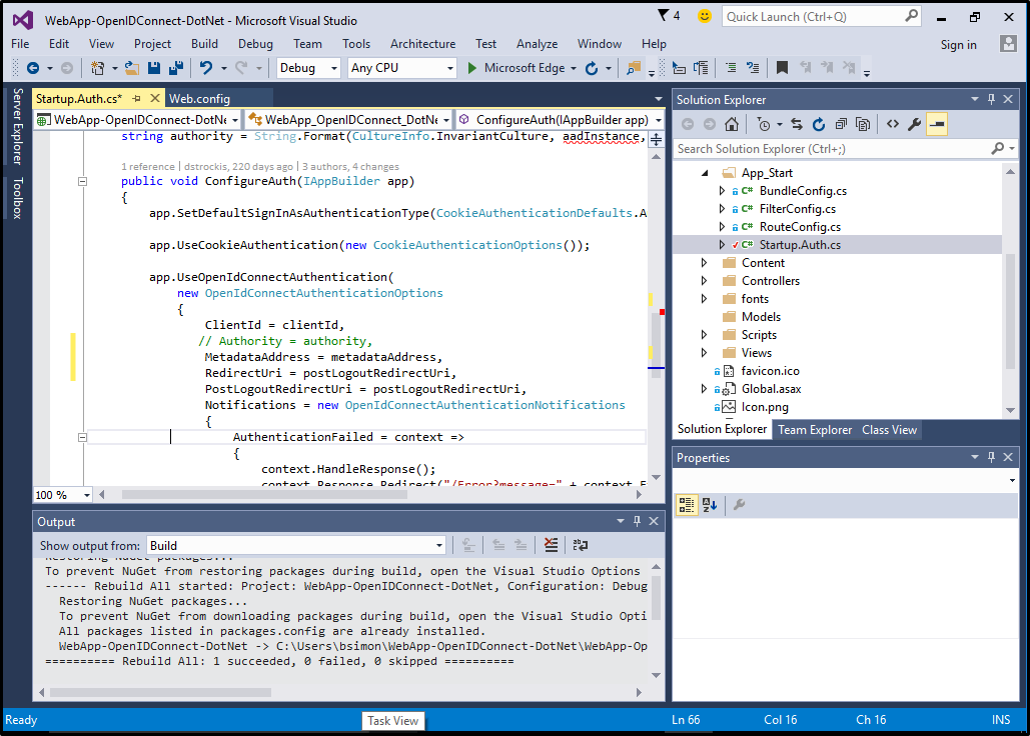
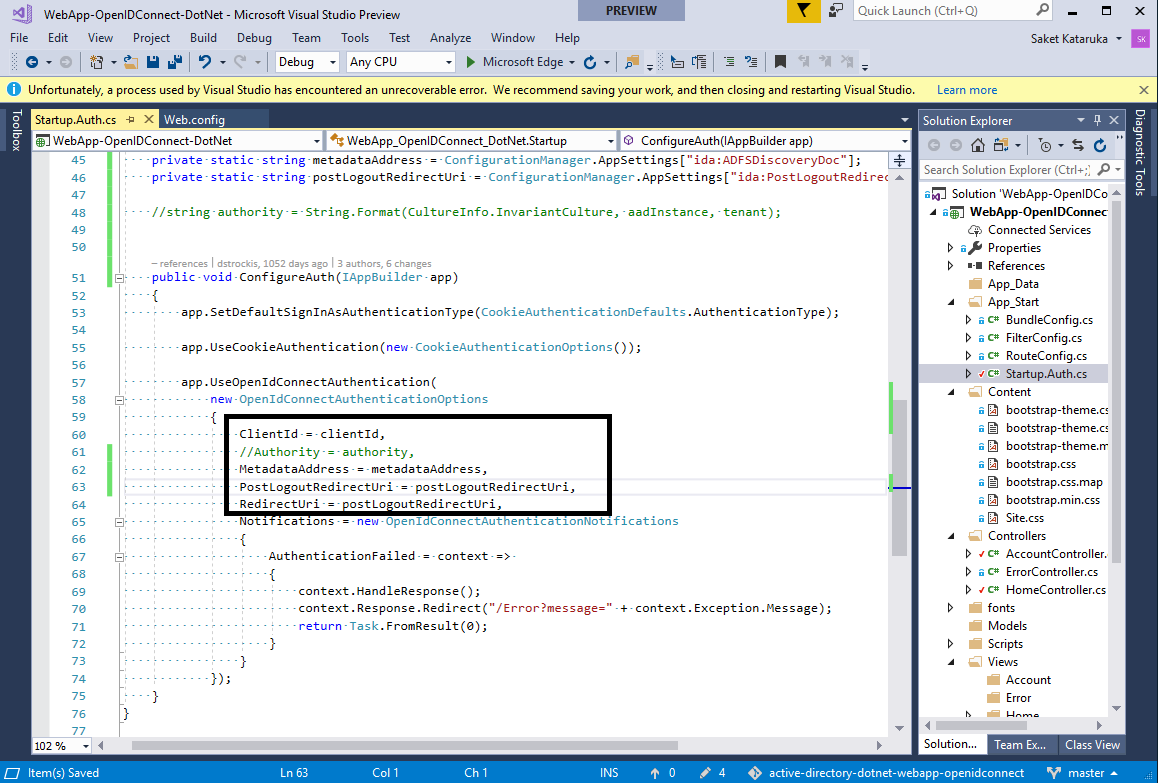
Update open id connect

diff --git a/WindowsServerDocs/identity/ad-fs/development/enabling-openId-connect-with-ad-fs.md b/WindowsServerDocs/identity/ad-fs/development/enabling-openId-connect-with-ad-fs.md
@@ -49,7 +49,7 @@ The following section describes how to configure the application group in AD FS 
 6.  On the **Complete** screen,  click **Close**.  
 
 ## Download and modify sample application to authenticate via OpenID Connect and AD FS  
-This section discusses how to download the sample Web API and modify it in Visual Studio.   We will be using the Azure AD sample that is [here](https://github.com/Azure-Samples/active-directory-dotnet-webapp-openidconnect).  
+This section discusses how to download the sample Web APP and modify it in Visual Studio.   We will be using the Azure AD sample that is [here](https://github.com/Azure-Samples/active-directory-dotnet-webapp-openidconnect).  
 
 To download the sample project, use Git Bash and type the following:  
 
@@ -97,7 +97,7 @@ git clone https://github.com/Azure-Samples/active-directory-dotnet-webapp-openid
 
         ![AD FS OpenID](media/Enabling-OpenId-Connect-with-AD-FS-2016/AD_FS_OpenID_10.PNG)  
 
-    -   Farther down, modify the OpenId Connect middleware options as in the following:  
+    -   Further down, modify the OpenId Connect middleware options as in the following:  
 
         ```  
         app.UseOpenIdConnectAuthentication(  
@@ -106,8 +106,8 @@ git clone https://github.com/Azure-Samples/active-directory-dotnet-webapp-openid
                 ClientId = clientId,  
                 //Authority = authority,  
                 MetadataAddress = metadataAddress,  
-                RedirectUri = postLogoutRedirectUri,  
-                PostLogoutRedirectUri = postLogoutRedirectUri
+                PostLogoutRedirectUri = postLogoutRedirectUri,
+                RedirectUri = postLogoutRedirectUri
         ```  
 
         ![AD FS OpenID](media/Enabling-OpenId-Connect-with-AD-FS-2016/AD_FS_OpenID_11.PNG)  
